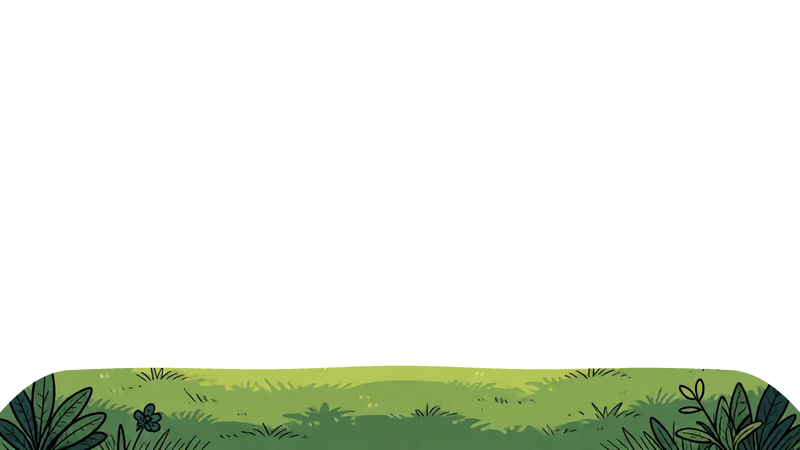
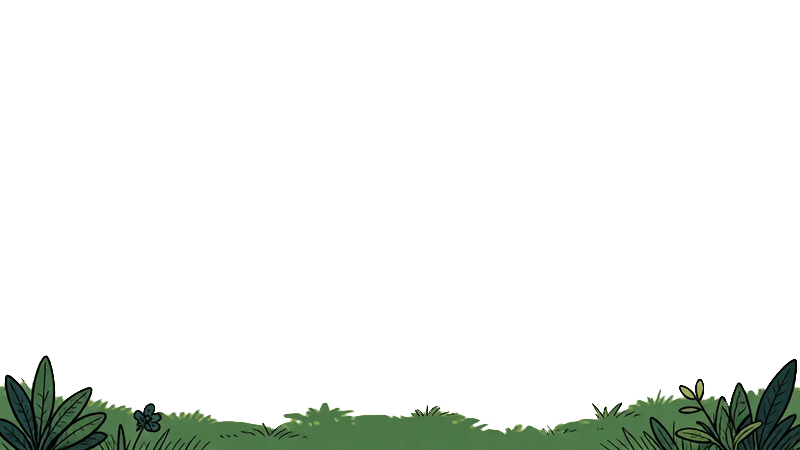
New stylized tree assets

Changed region(s): [[0.0, 0.7778, 1.0, 0.9644]]

diff --git a/lernwerk-builder.js b/lernwerk-builder.js
@@ -60,7 +60,7 @@ fs.writeFileSync(manifestFile, JSON.stringify(entries, null, 4) + '\n')
 
 // scene assets (public/assets/<scene>) used by the lernwerk example scenes in common/scene,
 // mirrored to <lernwerk>/assets/<scene> (same layout as an ILIAS installation: assets/ next to common/)
-const sceneAssets = ['robots', 'floatingworld', 'cherrygame', 'maze', 'universum', 'snowmeadow', 'seasonal']
+const sceneAssets = ['robots', 'floatingworld', 'cherrygame', 'maze', 'universum', 'snowmeadow', 'seasonal', 'sunnyhill']
 const destAssets = path.join(lernwerk, 'assets')
 fs.mkdirSync(destAssets, { recursive: true })
 for (const name of sceneAssets) {
